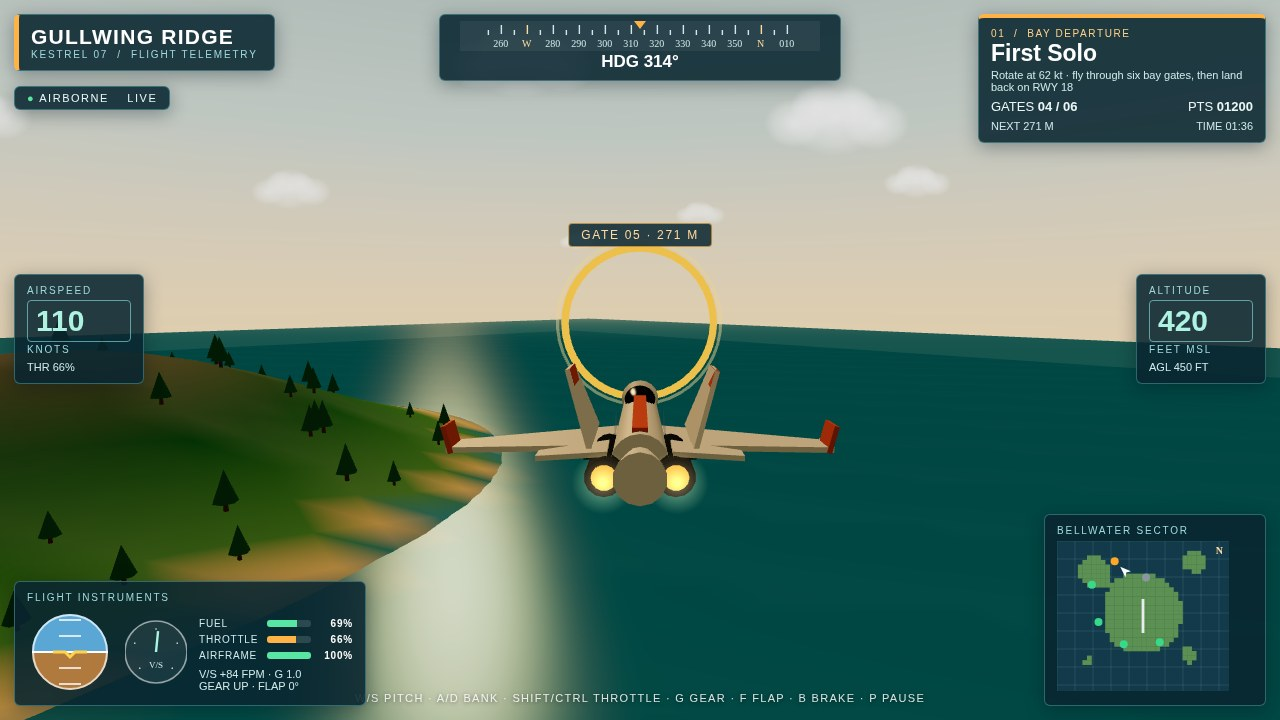
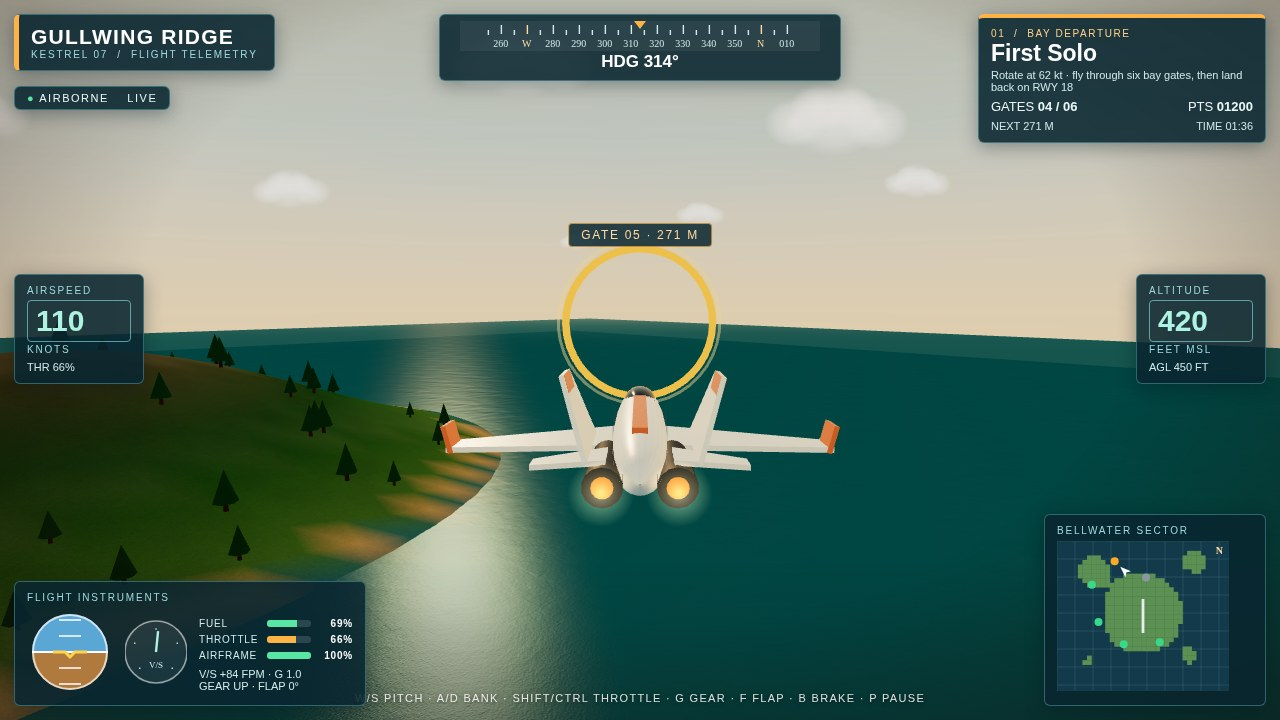
Art overhaul: lathed smooth fuselage with painted panel-line skin and sky-environment reflections, grain-textured terrain with slope rock, painted runway texture, cinematic vignette grade

diff --git a/game/src/main.js b/game/src/main.js
@@ -82,6 +82,29 @@ function buildSky() {
   return sky;
 }
 scene.add(buildSky());
+/* image-based light: a painted equirect sky (gradient + sun blob + sea band)
+   run through PMREM so standard materials pick up real sky reflections */
+function buildEnvironment() {
+  const c = document.createElement('canvas'); c.width = 1024; c.height = 512;
+  const x = c.getContext('2d');
+  const grad = x.createLinearGradient(0, 0, 0, 512);
+  grad.addColorStop(0, '#3d6474'); grad.addColorStop(0.42, '#b3beb2');
+  grad.addColorStop(0.52, '#f6bf78'); grad.addColorStop(0.58, '#7d94a0');
+  grad.addColorStop(1, '#274b5c');
+  x.fillStyle = grad; x.fillRect(0, 0, 1024, 512);
+  const sunG = x.createRadialGradient(300, 250, 6, 300, 250, 190);
+  sunG.addColorStop(0, 'rgba(255,230,180,0.95)');
+  sunG.addColorStop(0.25, 'rgba(255,190,110,0.55)');
+  sunG.addColorStop(1, 'rgba(255,170,90,0)');
+  x.fillStyle = sunG; x.fillRect(0, 0, 1024, 512);
+  const tex = new THREE.CanvasTexture(c);
+  tex.mapping = THREE.EquirectangularReflectionMapping;
+  tex.encoding = THREE.sRGBEncoding;
+  const pmrem = new THREE.PMREMGenerator(renderer);
+  scene.environment = pmrem.fromEquirectangular(tex).texture;
+  tex.dispose(); pmrem.dispose();
+}
+buildEnvironment();
 const camera = new THREE.PerspectiveCamera(58, window.innerWidth / window.innerHeight, 0.5, 12000);
 window.addEventListener('resize', () => {
   camera.aspect = window.innerWidth / window.innerHeight;
@@ -101,8 +124,31 @@ scene.add(sun);
 scene.add(sun.target);
 
 /* ---------- terrain mesh, coloured by height ---------- */
+/* shared painted grain: one noise canvas textures terrain, sea and runway */
+function makeNoiseTexture(size, base, spread, blotch) {
+  const c = document.createElement('canvas'); c.width = c.height = size;
+  const x = c.getContext('2d');
+  x.fillStyle = 'rgb(' + base + ',' + base + ',' + base + ')'; x.fillRect(0, 0, size, size);
+  let seed = 424243;
+  const rnd = () => (seed = (seed * 1103515245 + 12345) & 0x7fffffff) / 0x7fffffff;
+  for (let i = 0; i < blotch; i++) {
+    const v = base + Math.round((rnd() - 0.5) * spread);
+    x.fillStyle = 'rgba(' + v + ',' + v + ',' + v + ',0.16)';
+    x.beginPath(); x.arc(rnd() * size, rnd() * size, 8 + rnd() * 42, 0, Math.PI * 2); x.fill();
+  }
+  const img = x.getImageData(0, 0, size, size), d = img.data;
+  for (let i = 0; i < d.length; i += 4) {
+    const n = (rnd() - 0.5) * spread * 0.9;
+    d[i] += n; d[i + 1] += n; d[i + 2] += n;
+  }
+  x.putImageData(img, 0, 0);
+  const tex = new THREE.CanvasTexture(c);
+  tex.wrapS = tex.wrapT = THREE.RepeatWrapping;
+  return tex;
+}
+const grainTex = makeNoiseTexture(512, 205, 70, 260);
 function buildTerrain() {
-  const size = WORLD * 2, seg = 150;
+  const size = WORLD * 2, seg = 200;
   const geo = new THREE.PlaneGeometry(size, size, seg, seg);
   geo.rotateX(-Math.PI / 2);
   const pos = geo.attributes.position;
@@ -120,12 +166,18 @@ function buildTerrain() {
     else if (h < 48) tmp.copy(cGrass).lerp(cForest, (h - 6) / 42);
     else if (h < 105) tmp.copy(cForest).lerp(cRock, (h - 48) / 57);
     else tmp.copy(cRock).lerp(cPeak, Math.min(1, (h - 105) / 60));
+    // steep faces read as bare rock whatever their height, like the reference crags
+    const slope = Math.abs(heightAt(x + 16, z) - h) + Math.abs(heightAt(x, z + 16) - h);
+    if (h > 6 && slope > 9) tmp.lerp(cRock, Math.min(0.75, (slope - 9) / 14));
     const jitter = ((i * 7919) % 13) / 13 * 0.05 - 0.025;
     colors[i * 3] = tmp.r + jitter; colors[i * 3 + 1] = tmp.g + jitter; colors[i * 3 + 2] = tmp.b + jitter;
   }
   geo.setAttribute('color', new THREE.BufferAttribute(colors, 3));
   geo.computeVertexNormals();
-  const mat = new THREE.MeshLambertMaterial({ vertexColors: true });
+  const tex = grainTex.clone();
+  tex.needsUpdate = true;
+  tex.repeat.set(30, 30);
+  const mat = new THREE.MeshLambertMaterial({ vertexColors: true, map: tex });
   const mesh = new THREE.Mesh(geo, mat);
   mesh.receiveShadow = true;
   return mesh;
@@ -133,9 +185,12 @@ function buildTerrain() {
 scene.add(buildTerrain());
 
 /* sea surface (translucent, animated in the loop) */
+const seaBump = grainTex.clone();
+seaBump.needsUpdate = true;
+seaBump.repeat.set(90, 90);
 const sea = new THREE.Mesh(
   new THREE.PlaneGeometry(WORLD * 2.4, WORLD * 2.4),
-  new THREE.MeshPhongMaterial({ color: 0x2e86ab, specular: 0x7fa8ad, shininess: 170, transparent: true, opacity: 0.9 })
+  new THREE.MeshPhongMaterial({ color: 0x2e86ab, specular: 0x5f8a90, shininess: 190, transparent: true, opacity: 0.9, bumpMap: seaBump, bumpScale: 0.7 })
 );
 sea.rotation.x = -Math.PI / 2; sea.position.y = 0.4;
 scene.add(sea);
@@ -147,16 +202,38 @@ function box(w, h, d, color, x, y, z, ry) {
   m.position.set(x, y, z); if (ry) m.rotation.y = ry;
   scene.add(m); return m;
 }
+function runwayTexture() {
+  const c = document.createElement('canvas'); c.width = 256; c.height = 1024;
+  const x = c.getContext('2d');
+  x.fillStyle = '#33373c'; x.fillRect(0, 0, 256, 1024);
+  let seed = 777001;
+  const rnd = () => (seed = (seed * 1103515245 + 12345) & 0x7fffffff) / 0x7fffffff;
+  for (let i = 0; i < 9000; i++) {
+    const v = 42 + Math.round(rnd() * 26);
+    x.fillStyle = 'rgb(' + v + ',' + (v + 3) + ',' + (v + 7) + ')';
+    x.fillRect(rnd() * 256, rnd() * 1024, 2, 2);
+  }
+  // rubber streaks in both touchdown zones
+  for (const zy of [150, 874]) {
+    for (let i = 0; i < 260; i++) {
+      x.fillStyle = 'rgba(12,12,14,' + (0.05 + rnd() * 0.13) + ')';
+      x.fillRect(96 + rnd() * 64, zy + (rnd() - 0.5) * 130, 3 + rnd() * 5, 8 + rnd() * 22);
+    }
+  }
+  x.fillStyle = '#e8ecec';
+  x.fillRect(10, 0, 5, 1024); x.fillRect(241, 0, 5, 1024);      // edge lines
+  for (let z = 70; z < 980; z += 62) x.fillRect(124, z, 8, 34); // centreline dashes
+  for (const zy of [18, 988]) for (let b = 0; b < 6; b++) x.fillRect(28 + b * 36, zy, 20, 12); // threshold bars
+  const tex = new THREE.CanvasTexture(c);
+  tex.anisotropy = 4;
+  return tex;
+}
 function buildAirfield() {
   const rw = new THREE.Mesh(new THREE.BoxGeometry(RWY.w, 1.2, RWY.zBot - RWY.zTop),
-    new THREE.MeshLambertMaterial({ color: 0x2c3136 }));
+    new THREE.MeshLambertMaterial({ map: runwayTexture() }));
   rw.position.set(RWY.x, RWY.h + 0.4, (RWY.zTop + RWY.zBot) / 2);
+  rw.receiveShadow = true;
   scene.add(rw);
-  const stripeMat = new THREE.MeshBasicMaterial({ color: 0xf4f6f6 });
-  for (let z = RWY.zTop + 26; z < RWY.zBot - 10; z += 44) {
-    const s = new THREE.Mesh(new THREE.BoxGeometry(2.2, 0.25, 20), stripeMat);
-    s.position.set(RWY.x, RWY.h + 1.05, z); scene.add(s);
-  }
   for (const sx of [-1, 1]) for (let z = RWY.zTop + 8; z < RWY.zBot; z += 34) {
     const lamp = new THREE.Mesh(new THREE.SphereGeometry(1.5, 8, 6),
       new THREE.MeshBasicMaterial({ color: 0xfff6c9 }));
@@ -252,18 +329,45 @@ function flatShape(points, thickness) {
 }
 function buildPlane() {
   const g = new THREE.Group();
-  const white = new THREE.MeshPhongMaterial({ color: 0xf2f0ea, shininess: 34, specular: 0x666055 });
-  const orange = new THREE.MeshPhongMaterial({ color: 0xe86f2e, shininess: 30, specular: 0x664422 });
-  const dark = new THREE.MeshLambertMaterial({ color: 0x2b3438, flatShading: true });
-  const glass = new THREE.MeshPhongMaterial({ color: 0x14242e, shininess: 140, specular: 0xd8ecff });
-  const fus = new THREE.Mesh(new THREE.CylinderGeometry(0.92, 0.78, 9.6, 18), white);
-  fus.rotation.x = Math.PI / 2; g.add(fus);
-  const nose = new THREE.Mesh(new THREE.CylinderGeometry(0.16, 0.92, 2.6, 18), white);
-  nose.rotation.x = Math.PI / 2; nose.position.z = -6.05; g.add(nose);
-  const tailCone = new THREE.Mesh(new THREE.CylinderGeometry(0.78, 0.5, 1.8, 14), white);
-  tailCone.rotation.x = Math.PI / 2; tailCone.position.z = 5.6; g.add(tailCone);
-  const cockpit = new THREE.Mesh(new THREE.SphereGeometry(0.86, 16, 12), glass);
-  cockpit.scale.set(0.78, 0.62, 1.9); cockpit.position.set(0, 0.66, -3.3); g.add(cockpit);
+  // painted skin for the lathed body: faint panel lines + grime, drawn in code
+  const skinC = document.createElement('canvas'); skinC.width = 1024; skinC.height = 256;
+  const sk = skinC.getContext('2d');
+  sk.fillStyle = '#f2f0ea'; sk.fillRect(0, 0, 1024, 256);
+  let seed = 31337;
+  const srnd = () => (seed = (seed * 1103515245 + 12345) & 0x7fffffff) / 0x7fffffff;
+  for (let i = 0; i < 5200; i++) {
+    const v = 226 + Math.round(srnd() * 22);
+    sk.fillStyle = 'rgb(' + v + ',' + v + ',' + (v - 4) + ')';
+    sk.fillRect(srnd() * 1024, srnd() * 256, 2, 2);
+  }
+  sk.strokeStyle = 'rgba(90,90,88,0.35)'; sk.lineWidth = 2;
+  for (let i = 0; i < 26; i++) { // longitudinal panel seams (u runs around the body)
+    const px = (i / 26) * 1024 + srnd() * 8;
+    sk.beginPath(); sk.moveTo(px, 0); sk.lineTo(px, 256); sk.stroke();
+  }
+  sk.strokeStyle = 'rgba(90,90,88,0.22)';
+  for (const py of [42, 128, 214]) { sk.beginPath(); sk.moveTo(0, py); sk.lineTo(1024, py); sk.stroke(); }
+  sk.fillStyle = 'rgba(70,64,58,0.10)';
+  for (let i = 0; i < 26; i++) sk.fillRect(srnd() * 1024, 190 + srnd() * 60, 20 + srnd() * 60, 3); // belly grime
+  const skinTex = new THREE.CanvasTexture(skinC);
+  skinTex.wrapS = THREE.RepeatWrapping;
+  const white = new THREE.MeshStandardMaterial({ map: skinTex, roughness: 0.34, metalness: 0.08 });
+  const orange = new THREE.MeshStandardMaterial({ color: 0xe86f2e, roughness: 0.42, metalness: 0.05 });
+  const dark = new THREE.MeshStandardMaterial({ color: 0x2b3438, roughness: 0.6, metalness: 0.25 });
+  const glass = new THREE.MeshStandardMaterial({ color: 0x101c26, roughness: 0.08, metalness: 0.4 });
+  // one continuous lathed body: the profile curve IS the aeroplane's shape,
+  // nose tip to tail cone in a single smooth surface (no cylinder joins)
+  const profile = [
+    [0.01, -7.4], [0.2, -7.05], [0.46, -6.3], [0.72, -5.3], [0.9, -4.1],
+    [0.98, -2.2], [1.0, 0.0], [0.98, 2.0], [0.92, 3.6], [0.82, 5.0],
+    [0.64, 6.0], [0.42, 6.6], [0.01, 6.95],
+  ].map((p) => new THREE.Vector2(p[0], p[1]));
+  const fusGeo = new THREE.LatheGeometry(profile, 30);
+  fusGeo.rotateX(Math.PI / 2); // lathe axis becomes the body's long axis, nose to -Z
+  const fus = new THREE.Mesh(fusGeo, white);
+  g.add(fus);
+  const cockpit = new THREE.Mesh(new THREE.SphereGeometry(0.86, 20, 14), glass);
+  cockpit.scale.set(0.76, 0.6, 2.0); cockpit.position.set(0, 0.62, -3.5); g.add(cockpit);
   const spine = new THREE.Mesh(new THREE.BoxGeometry(0.5, 0.3, 6.4), orange);
   spine.position.set(0, 0.88, 1.2); g.add(spine);
   // swept wings: shape drawn with +Y as forward, extruded thin, laid flat
@@ -284,21 +388,21 @@ function buildPlane() {
     nav.position.set(sx * 6.9, -0.3, 0.6); g.add(nav);
     // rear engines with glowing exhausts
     const eng = new THREE.Mesh(new THREE.CylinderGeometry(0.6, 0.54, 3.6, 14), dark);
-    eng.rotation.x = Math.PI / 2; eng.position.set(sx * 1.08, -0.28, 3.6); g.add(eng);
-    const exhaust = new THREE.Mesh(new THREE.CircleGeometry(0.4, 14),
-      new THREE.MeshBasicMaterial({ color: 0xd97a24 }));
-    exhaust.position.set(sx * 1.08, -0.28, 5.42); g.add(exhaust);
+    eng.rotation.x = Math.PI / 2; eng.position.set(sx * 1.08, -0.28, 4.6); g.add(eng);
+    const exhaust = new THREE.Mesh(new THREE.CircleGeometry(0.33, 14),
+      new THREE.MeshBasicMaterial({ color: 0xb85f1a }));
+    exhaust.position.set(sx * 1.08, -0.28, 6.42); g.add(exhaust);
     // horizontal stabilisers
     const stabGeo = flatShape([[1.0 * sx, 0.9], [3.1 * sx, -0.5], [3.1 * sx, -1.2], [1.0 * sx, -0.7]], 0.16);
     const stab = new THREE.Mesh(stabGeo, white);
-    stab.rotation.x = -Math.PI / 2; stab.position.set(0, 0.28, 4.4); g.add(stab);
+    stab.rotation.x = -Math.PI / 2; stab.position.set(0, 0.28, 5.4); g.add(stab);
     // canted twin fins, orange-tipped
     const finGeo = flatShape([[2.2, 0.1], [0.7, 2.6], [-0.9, 2.6], [-1.7, 0.1]], 0.16);
     const fin = new THREE.Mesh(finGeo, white);
     fin.rotation.y = Math.PI / 2;
     const finWrap = new THREE.Group();
     finWrap.add(fin);
-    finWrap.position.set(sx * 1.62, 0.3, 3.05);
+    finWrap.position.set(sx * 1.62, 0.3, 4.6);
     finWrap.rotation.z = sx * -0.3;
     g.add(finWrap);
     const finTipGeo = flatShape([[0.7, 2.6], [-0.9, 2.6], [-1.05, 2.05], [0.45, 2.05]], 0.17);
@@ -319,7 +423,7 @@ function buildPlane() {
   for (const sx of [-1, 1]) {
     const glow = new THREE.Sprite(glowMat);
     glow.scale.set(1.9, 1.9, 1);
-    glow.position.set(sx * 1.08, -0.28, 5.9);
+    glow.position.set(sx * 1.08, -0.28, 6.9);
     g.add(glow);
   }
   g.userData.glowMat = glowMat;
@@ -332,7 +436,7 @@ function buildPlane() {
   for (const sx of [-1, 1]) {
     const decal = new THREE.Mesh(new THREE.PlaneGeometry(4.4, 0.82),
       new THREE.MeshBasicMaterial({ map: decalTex, transparent: true, side: THREE.DoubleSide }));
-    decal.position.set(sx * 0.94, 0.16, -0.6);
+    decal.position.set(sx * 1.01, 0.16, -0.6);
     decal.rotation.y = sx * Math.PI / 2;
     g.add(decal);
   }
@@ -345,9 +449,9 @@ function buildPlane() {
     wheel.rotation.z = Math.PI / 2; wheel.position.set(sx * 1.5, -1.9, 0.5); legs.add(wheel);
   }
   const noseLeg = new THREE.Mesh(new THREE.CylinderGeometry(0.11, 0.11, 1.3, 5), dark);
-  noseLeg.position.set(0, -1.15, -3.6); legs.add(noseLeg);
+  noseLeg.position.set(0, -1.15, -4.3); legs.add(noseLeg);
   const noseWheel = new THREE.Mesh(new THREE.CylinderGeometry(0.4, 0.4, 0.26, 10), dark);
-  noseWheel.rotation.z = Math.PI / 2; noseWheel.position.set(0, -1.8, -3.6); legs.add(noseWheel);
+  noseWheel.rotation.z = Math.PI / 2; noseWheel.position.set(0, -1.8, -4.3); legs.add(noseWheel);
   g.add(legs);
   const prop = new THREE.Group(); // jets have no prop; kept so spin references stay harmless
   g.userData.blurDisc = { material: { opacity: 0 } };
@@ -965,6 +1069,7 @@ function animate() {
   const dt = Math.min(0.05, clock.getDelta());
   const t = clock.elapsedTime;
   sea.position.y = 0.4 + Math.sin(t * 0.5) * 0.18;
+  seaBump.offset.set(t * 0.006, t * 0.0023);
   for (const cl of clouds) { cl.position.x += dt * 2.2; if (cl.position.x > 2900) cl.position.x = -2900; }
   const active = gates[S.gateIdx];
   if (active && S.mode === 'play') {

diff --git a/game/index.html b/game/index.html
@@ -9,6 +9,10 @@
     font-family:"Segoe UI", "Helvetica Neue", Arial, sans-serif; color:#eaf6f6;
     -webkit-user-select:none; user-select:none; }
   #scene { position:fixed; inset:0; display:block; }
+  #vignette { position:fixed; inset:0; z-index:3; pointer-events:none;
+    background:
+      linear-gradient(180deg, rgba(255,176,92,.10) 0%, rgba(255,176,92,0) 26%, rgba(10,24,34,0) 78%, rgba(16,20,26,.20) 100%),
+      radial-gradient(ellipse at 50% 42%, rgba(0,0,0,0) 55%, rgba(24,14,6,.42) 100%); }
   .panel { position:fixed; background:rgba(9,38,48,.88); border:1px solid rgba(120,220,225,.35);
     border-radius:6px; box-shadow:0 4px 18px rgba(0,20,30,.35); padding:10px 12px; z-index:5; }
   .lab { font-size:10px; letter-spacing:.18em; color:#9fd8dc; text-transform:uppercase; }
@@ -81,6 +85,7 @@
 </head>
 <body>
 <canvas id="scene"></canvas>
+<div id="vignette"></div>
 
 <div class="panel" id="titleBox">
   <div class="t">GULLWING RIDGE</div>
